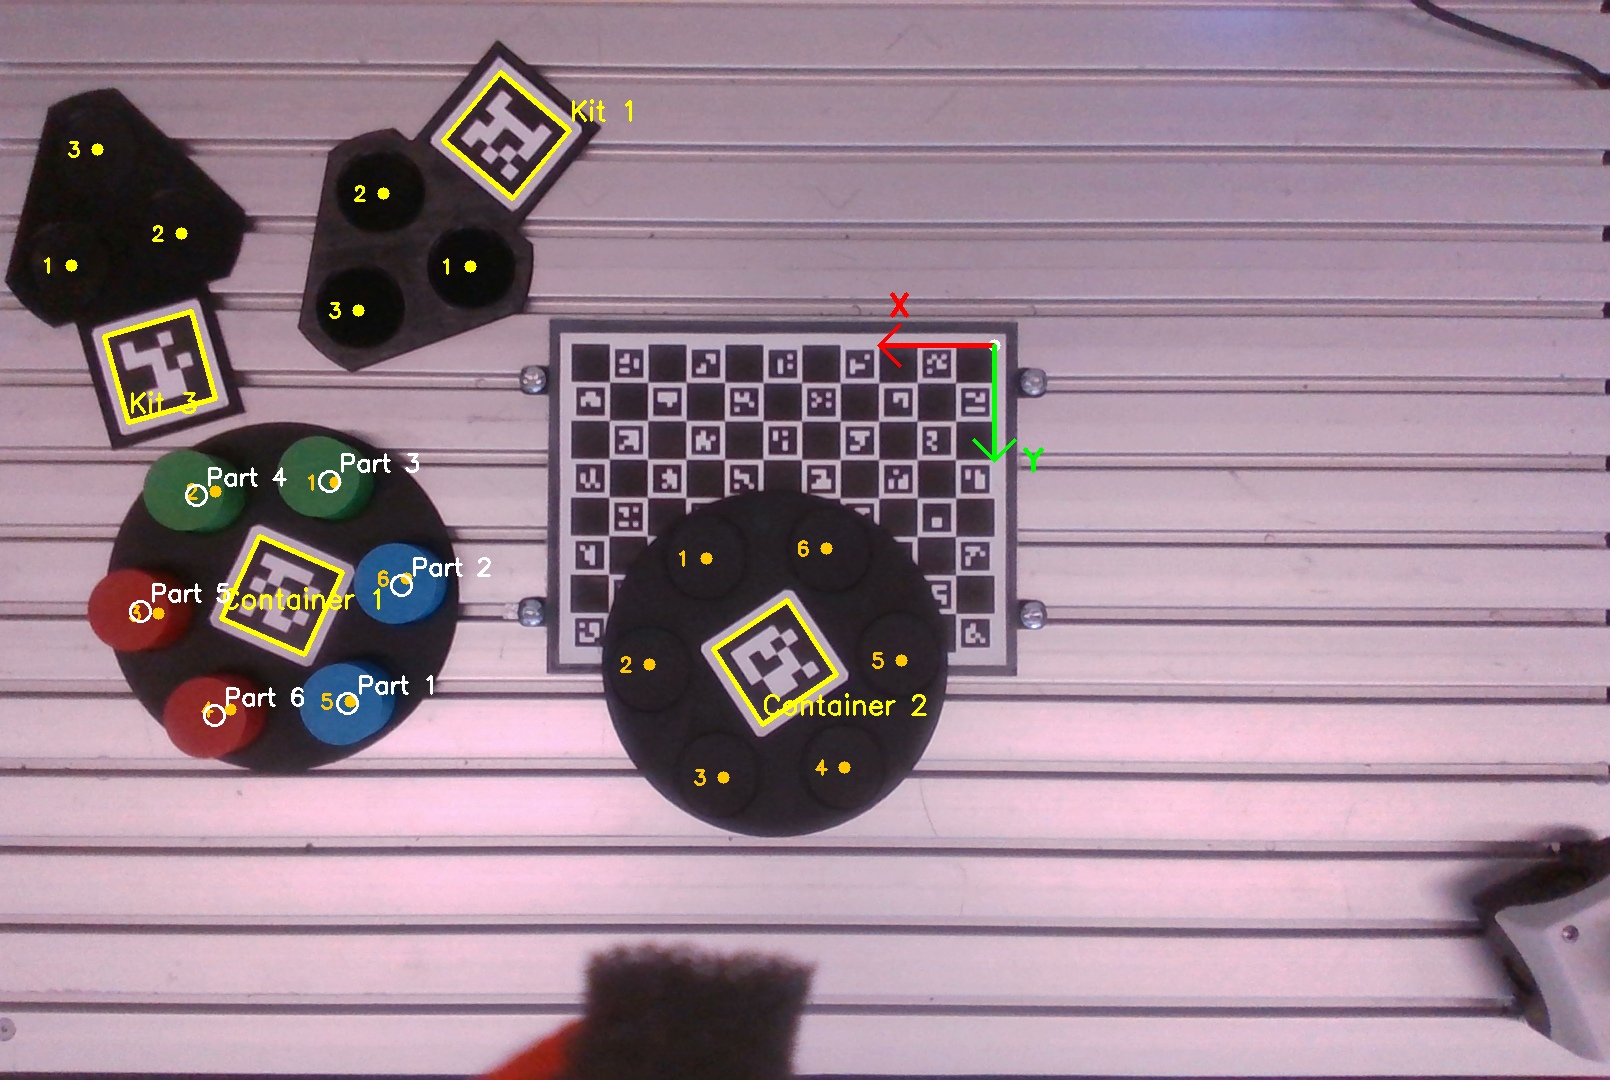
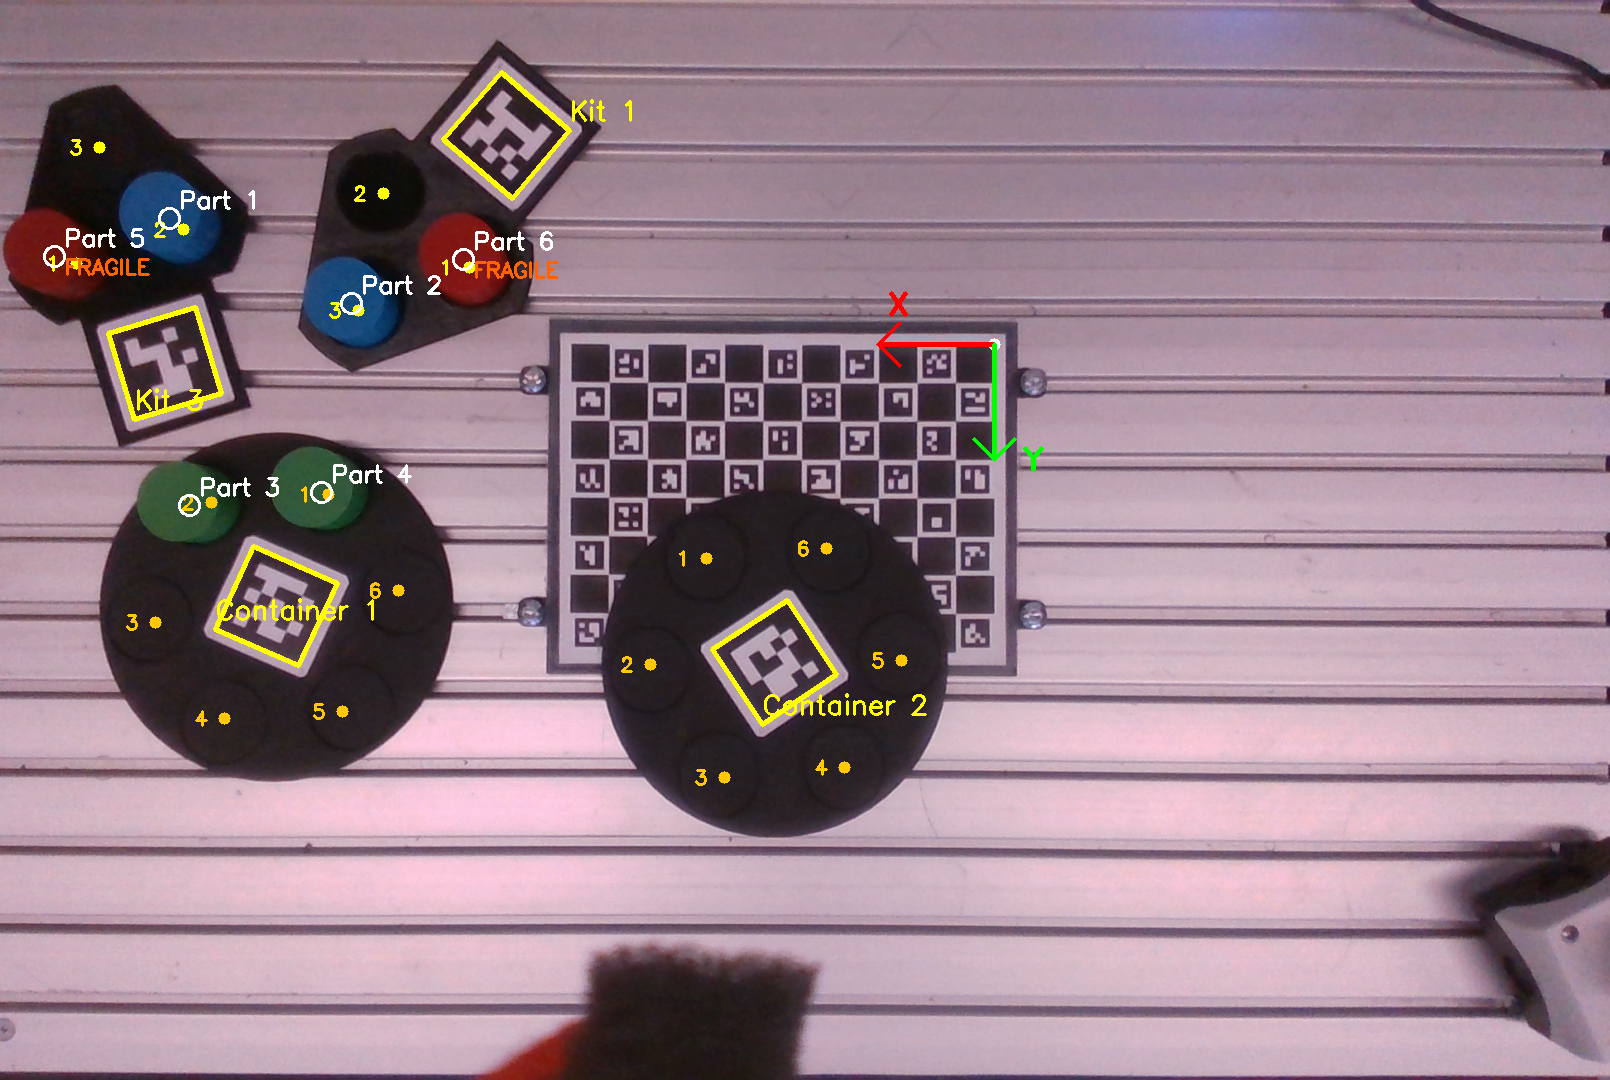
added "fragility" compatibiliy high attribute

diff --git a/python/Planning_Module/pddl_planner.py b/python/Planning_Module/pddl_planner.py
@@ -1101,7 +1101,16 @@ def _goal_sorting(state: Dict[str, Any]) -> List[str]:
         if "part_color" in rule:
             c = (rule["part_color"] or "").lower()
             color_to_allowed.setdefault(c, set()).update(allowed_recs)
-    
+
+        # Fragility-based rule
+        if "part_fragility" in rule:
+            frag = (rule["part_fragility"] or "").lower()
+            matching = {p for p, f in frag_map.items() if f.lower() == frag}
+            for part in matching:
+                if part not in part_info:
+                    part_info[part] = {"allowed_recs": set(), "target_slot": None}
+                part_info[part]["allowed_recs"].update(allowed_recs)
+
     # PASS 2: Process pure exclusion rules
     for rule in exclusion_rules:
         excluded_recs = set(rule.get("not_allowed_in", []))
